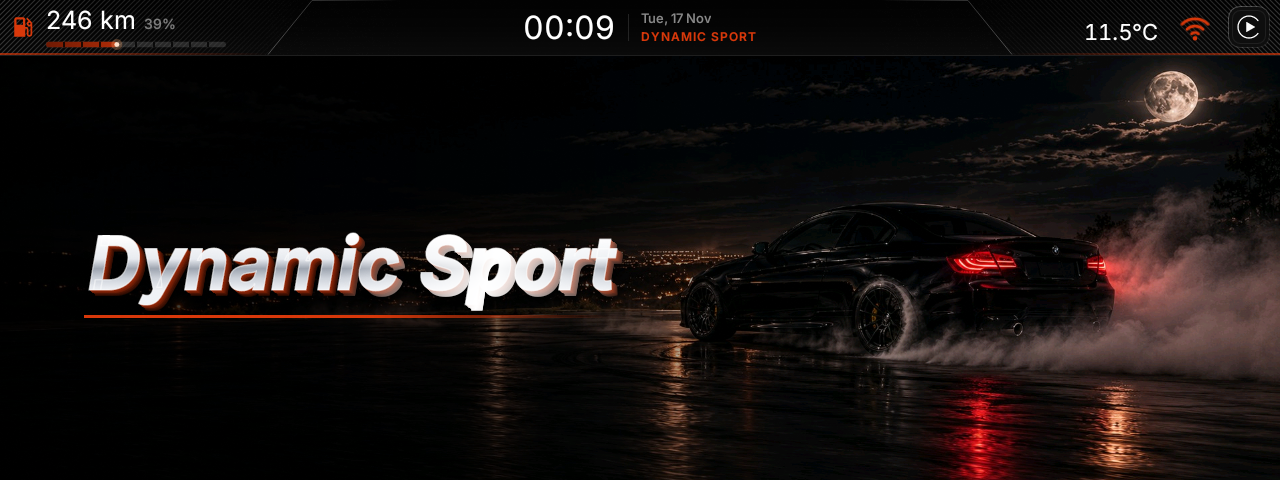
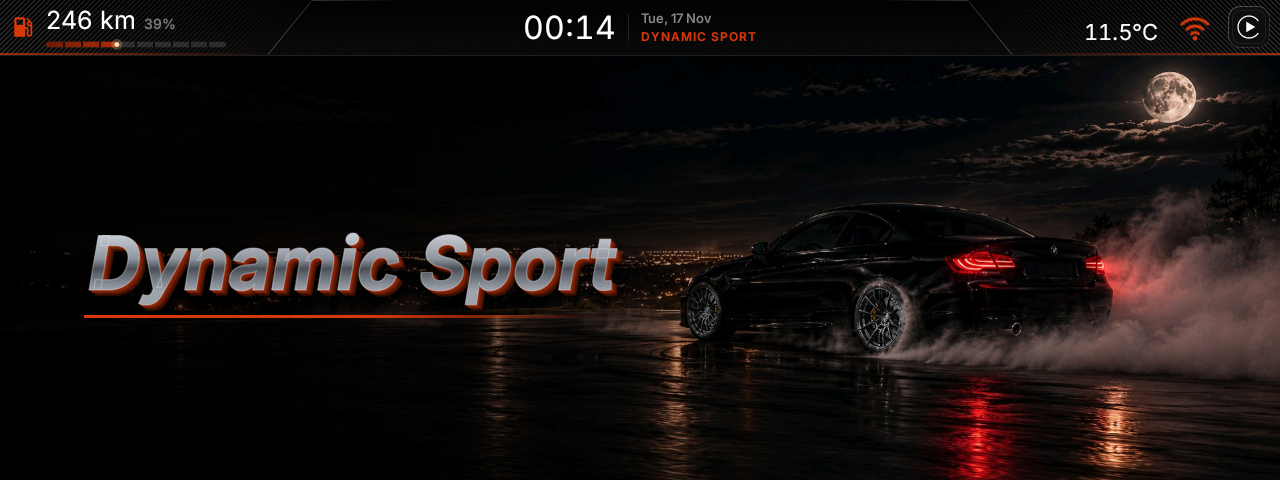
Mode scenes: hyper gray title face, hyper gray wheels in the smoke photo

diff --git a/app/src/main/java/ro/e92/launcher/ui/screens/ModeScreen.kt b/app/src/main/java/ro/e92/launcher/ui/screens/ModeScreen.kt
@@ -135,7 +135,7 @@ class ModeBannerView(
     private val rimPaint = titleStyle().apply {
         style = Paint.Style.STROKE
         strokeJoin = Paint.Join.ROUND
-        color = Color.WHITE
+        color = Color.rgb(214, 218, 224)
     }
     private var faceFor = 0f
 
@@ -248,21 +248,22 @@ class ModeBannerView(
                 depthPaint.alpha = alpha
                 canvas.drawText(title, x + depth * f, ty + depth * f, depthPaint)
             }
-            // Fața metalică: alb sus, o dungă de umbră sub mijloc, lumină din nou la bază.
+            // Fața metalică: lumină sus, o dungă de umbră sub mijloc, lumină din nou la bază.
             if (faceFor != ty) {
                 faceFor = ty
                 titlePaint.shader = LinearGradient(
                     0f, ty - big * 0.74f, 0f, ty,
+                    // Hyper gray: gri metalic închis, ca jantele din fotografie.
                     intArrayOf(
-                        Color.WHITE, Color.rgb(232, 235, 240), Color.rgb(158, 165, 176),
-                        Color.rgb(205, 210, 218), Color.rgb(240, 242, 246)
+                        Color.rgb(196, 200, 207), Color.rgb(142, 148, 157), Color.rgb(74, 79, 87),
+                        Color.rgb(112, 118, 127), Color.rgb(158, 163, 171)
                     ),
                     floatArrayOf(0f, 0.42f, 0.6f, 0.78f, 1f), Shader.TileMode.CLAMP
                 )
             }
             titlePaint.alpha = alpha
             canvas.drawText(title, x, ty, titlePaint)
-            rimPaint.alpha = (alpha * 0.55f).toInt()
+            rimPaint.alpha = (alpha * 0.38f).toInt()
             canvas.drawText(title, x, ty, rimPaint)
         }
         if (subText != null && subIn > 0f) {
